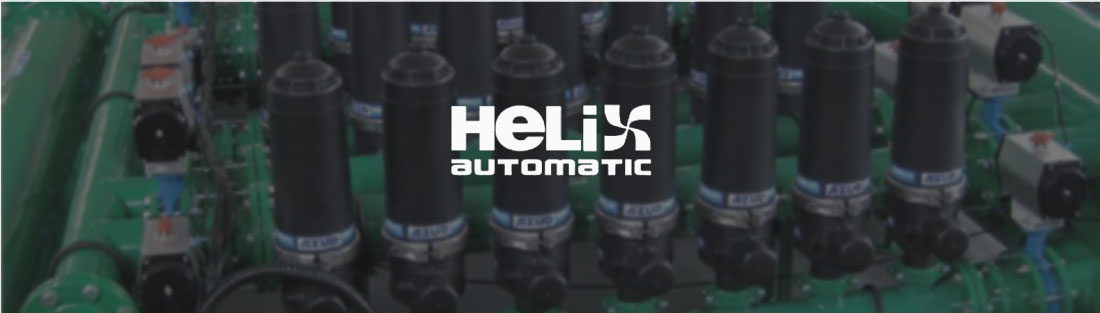
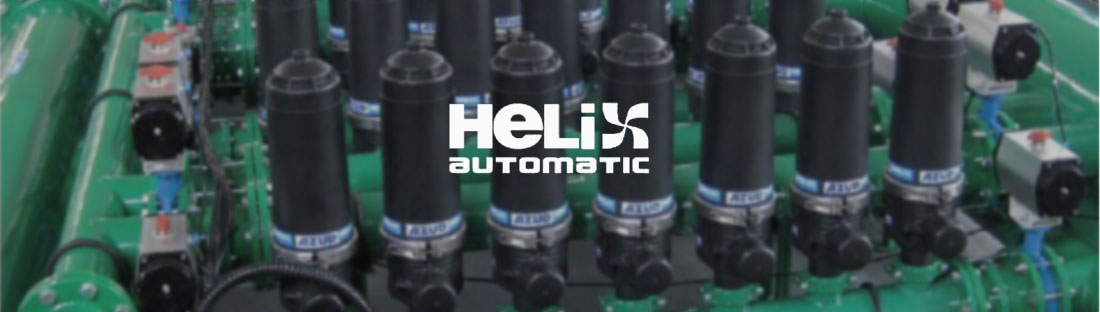
save

diff --git a/app/assets/client/pages/fiteration/semiauto.less b/app/assets/client/pages/fiteration/semiauto.less
@@ -1,0 +1,157 @@
+/**
+ * =require normalize.css/normalize
+ * =require components/common/index
+ *
+ * 
+ * =require_self
+ */
+body{
+	background-color: #ffffff;
+	.page-container{
+		width: 1100px;
+		margin:0 auto;
+		padding-bottom: 20px;
+		.excerpt{
+			font-size: 16px;
+			line-height: 28px;
+			margin:30px 0;
+		}
+		.pros-title{
+			position:relative;
+			font-size: 20px;
+			color:#333333;
+			margin: 20px 0;
+			width:100%;
+			&:after{
+				position:absolute;
+				left:120px;
+				top:14px;
+				content:"";
+				display:inline-block;
+				width:980px;
+				height:1px;
+				transform:scaleY(0.5);
+				-webkit-transform:scaleY(0.5);
+				background-color: #d1d1d1;
+			}
+		}
+		.pros-title1:after{
+			left:130px;	
+		}
+		.pros{
+			width:100%;
+			.pro{
+				width:540px;
+				height:290px;
+				float:left;
+				margin-bottom: 20px;
+				margin-right: 20px;
+				&:nth-child(2n){
+					margin-right: 0;
+				}
+				.pic{
+					float:left;
+					width:290px;
+					height:290px;
+				}
+				.intro1,.intro2,.intro3{
+					width:250px;
+					height:100%;
+					padding-top: 20px;
+					display:inline-block;
+					h6{
+						font-size: 18px;
+						color:#014383;
+						margin-bottom: 25px;
+					}
+					p{
+						font-size: 14px;
+						line-height: 24px;
+					}
+
+				}
+				.intro2{
+					.params{
+						display:inline-block;
+						margin-top: 5px;
+						min-width: 230px;
+						span{
+							font-size: 12px;
+							line-height: 14px;
+
+						}
+						.pic,.pic-2{
+							width:18px;
+							height:40px;
+							float:left;
+							background: url(/img/fiteration/semiauto/icon.jpg) no-repeat;
+
+						}
+						.pic{
+							background-position: 0 0;						
+						}
+						.pic-2{
+							background-position: -26px 0;
+						}
+						.params-rt{
+							float:left;	
+							.subtitle{
+								font-size: 13px;
+								line-height: 18px;
+							}
+							.param{
+								.icon{
+									width:10px;
+									height:10px;
+									display:inline-block;
+									margin-right: 6px;
+									margin-left: 15px;
+									&:first-child{
+										margin-left: 0;
+									}
+								}
+								.purple{
+									background-color: #003768;
+								}
+								.red{
+									background-color: #e1001b;
+								}
+								.green{
+									background-color: #018235;
+								}
+								.yellow{
+									background-color: #f58028;
+								}
+							}
+							.param2{
+								.icon{
+									margin-left: 1px;
+									margin-right: 0px;
+									width:8px;
+									height:8px;		
+								}
+								.text{
+									transform:scale(2/3);
+								}
+							}						
+						}		
+						
+					}
+				}
+				.load{
+					margin-top: 20px;
+					border:1px solid #014383;
+					display:inline-block;
+					padding:5px 8px;
+					font-size: 13px;
+					line-height: 13px;
+					color:#014383;
+					border-radius: 20px;
+
+				}
+			}
+		}
+
+
+	}
+}

diff --git a/app/assets/client/components/page-header/index.js b/app/assets/client/components/page-header/index.js
@@ -40,11 +40,24 @@
 
                 $('.list li a').each(function(e){
                     if($(this).attr('href')==curPath){
-                        $(this).parent().addClass('active').parent().addClass('show');
+                        $('.lists').slideDown();
+                        $(this).parent().addClass('active');
                     }
                 })
+                $('.navs .nav').each(function(e){
+                    if($('this').attr('href')==curPath){
+                        $(this).addClass('cur');
+                    }
+                })
+                el.find("[href='/fiteration']").on("click",function(event) {
+                    /* Act on the event */
+                    event.preventDefault();
+                })
                 if(curPath=='/fiteration/helix/detail'){
-                    $('.page-bd .list').addClass('show').children('li:first').addClass('active');
+                    $('.page-bd .lists').slideDown().find('li:first').addClass('active');
+                }
+                if(curPath=='/'){
+                    $('.nav:first').addClass('cur');
                 }
  
                 $(window).on("scroll",function(e){
@@ -61,6 +74,7 @@
                     var elcurrent=e.currentTarget;
                     $(elcurrent).addClass("cur").siblings().removeClass("cur");
                     elIndex=$('.navs .nav').index(elcurrent);
+                    $(".page-bd .lists").slideDown();
                     $(".lists .list").eq(0).slideDown().siblings().slideUp();
                         
                 })

diff --git a/app/assets/client/components/page-header/index.less b/app/assets/client/components/page-header/index.less
@@ -102,11 +102,11 @@
 			}
 		}
 		.lists{
+			display:none;
 			width:100%;
 			border-top: 1px solid #6989ba;
 			border-bottom: 1px solid #e5e5e5;
 			.list{
-				display:none;
 				position:relative;
 				width:1100px;
 				margin: 0 auto;

diff --git a/app/assets/client/components/luxon-product/index.less b/app/assets/client/components/luxon-product/index.less
@@ -20,7 +20,8 @@
 				display:inline-block;
 				width:980px;
 				height:1px;
-				transform:translateY(0.5);
+				transform:scaleY(0.5);
+				-webkit-transform:scaleY(0.5);
 				background-color: #d1d1d1;
 			}
 		}

diff --git a/app/assets/client/pages/fiteration/semiauto.js b/app/assets/client/pages/fiteration/semiauto.js
@@ -1,0 +1,12 @@
+//
+// =require components/common/index
+// =require components/page-header/index
+//
+//=require_self
+
+$(function(){
+	var el=$('body');
+
+	el.find('.com-page-header').PageHeader();
+
+})

diff --git a/app/assets/client/pages/homes/show.less b/app/assets/client/pages/homes/show.less
@@ -110,7 +110,7 @@
 			top:0;
 			width:100%;
 			height:100%;
-			background-color: rgba(0, 0, 0, 0.8);
+			background-color: rgba(0, 0, 0, 0.1);
 		}
 		img{
 			width:auto;
